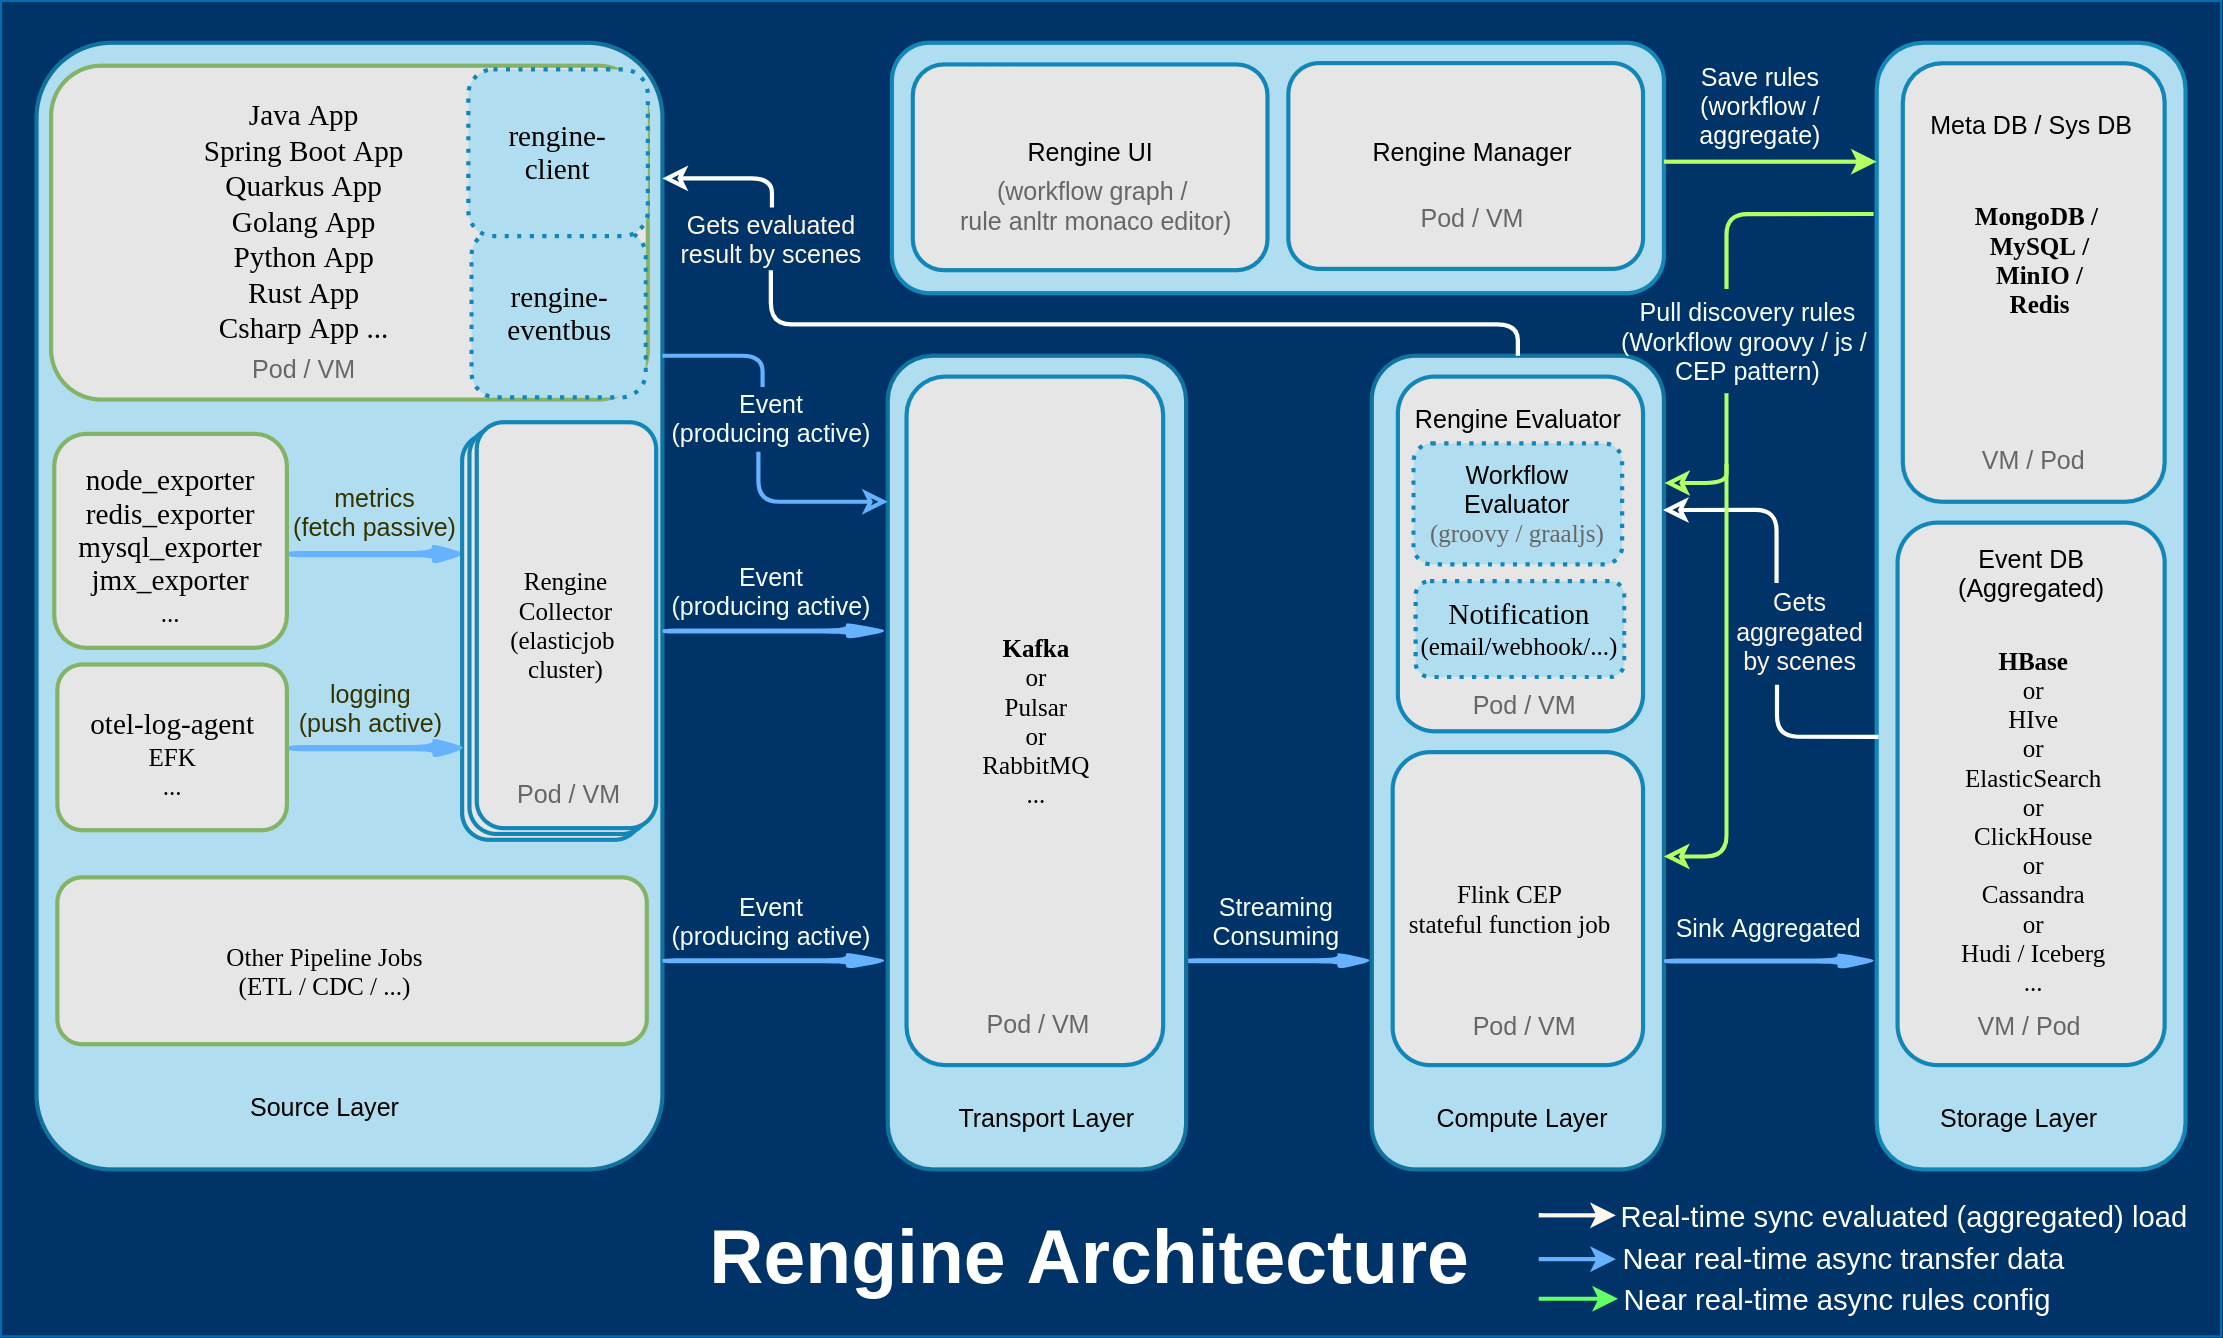
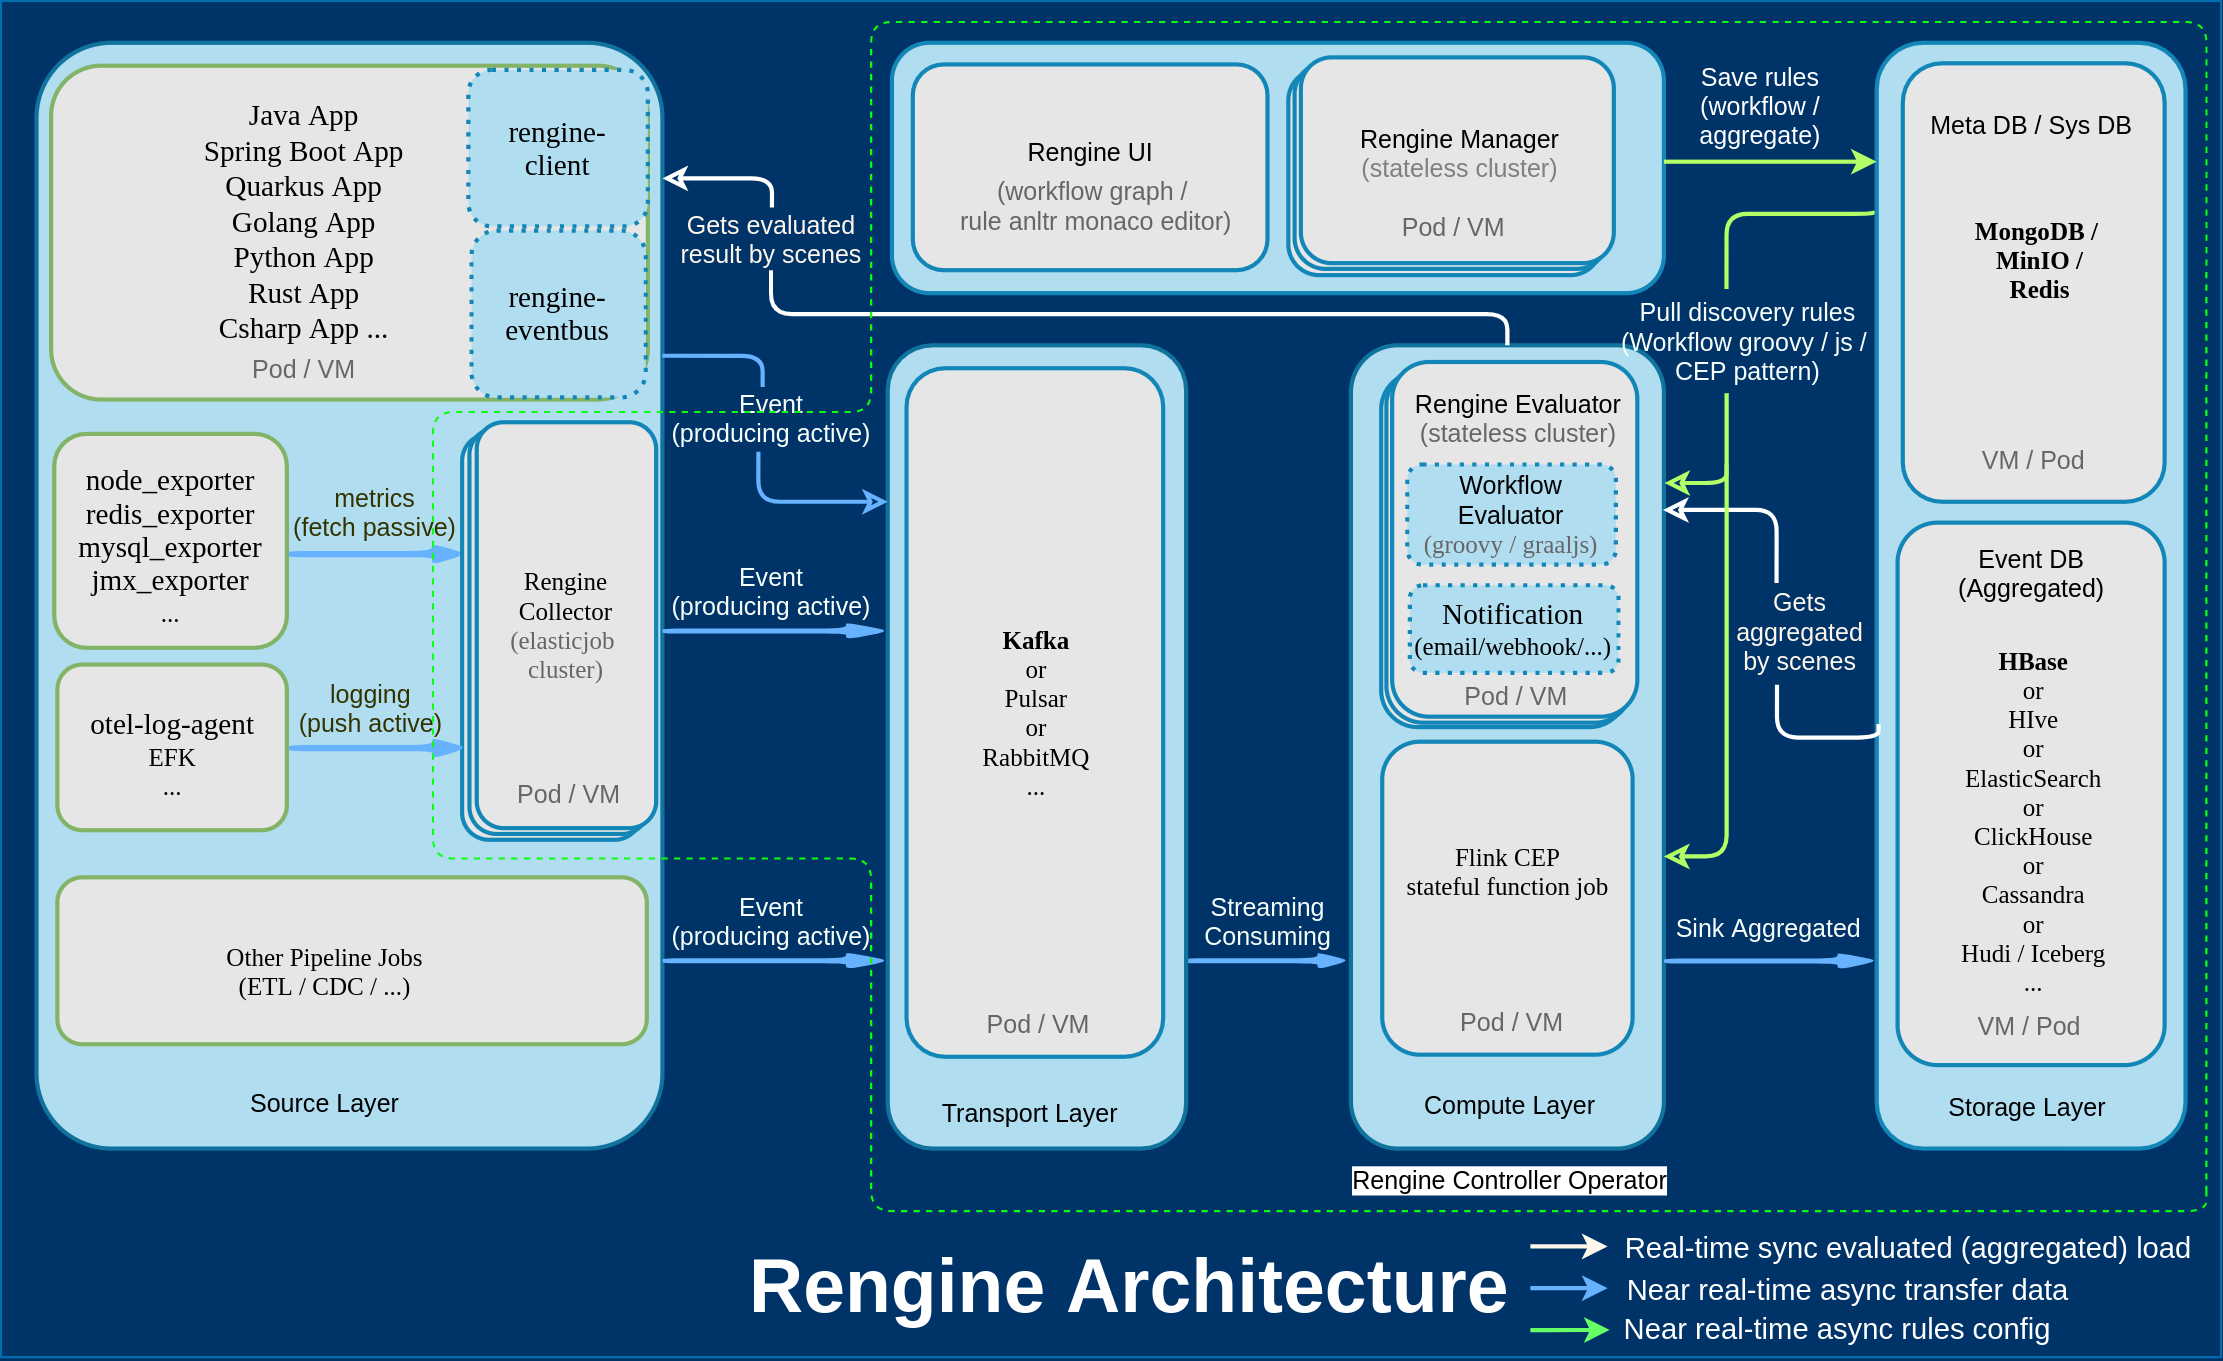
doc: add best-aplicaciones-case

diff --git a/README.md b/README.md
@@ -1,6 +1,6 @@
 # Rengine
 
-A real-time + quasi-real-time general rule engine platform, suitable for such as financial risk control, real-time alarm of Iot temperature indicators, online data cleaning and filtering, etc.
+A real-time + near real-time general rule engine platform, suitable for such as financial risk control, real-time alarm of Iot temperature indicators, online data cleaning and filtering, etc.
 
 ## Architectures
 
@@ -72,9 +72,11 @@ A real-time + quasi-real-time general rule engine platform, suitable for such as
 
 - [Operation quide](./docs/en/operation.md)
 
+- [Best aplicaciones cases](./docs/en/best-aplicaciones-cases.md)
+
 ## RoadMap
 
-- [roadmap-2022](./docs/en/roadmap-2022.md)
+- [roadmap](./docs/en/roadmap-2022-23.md)
 
 ## FAQ
 

diff --git a/docs/en/best-aplicaciones-cases.md b/docs/en/best-aplicaciones-cases.md
@@ -1,0 +1,9 @@
+# Rengine best Aplicaciones Cases
+
+## The rules workflow for e-commerce/telephone top-up gift giving
+
+- Configuration for business workflow and execution graph are as follows:
+
+- Testing codes: [ExecutionGraphTests.java#testECommerceTradeWorkflow](../../common/src/test/java/com/wl4g/rengine/common/graph/ExecutionGraphTests.java)
+
+- ![](../shots/case1.png)
